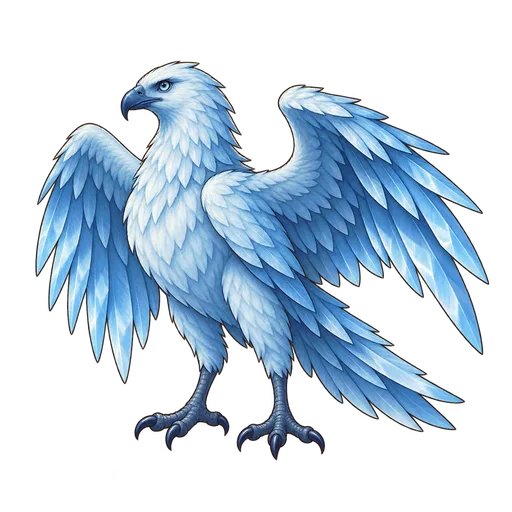
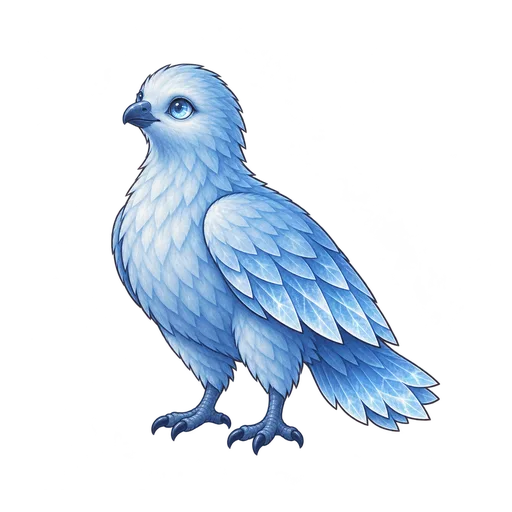
Soften Kavari silhouette and simplify folded wings

diff --git a/art/source/kavari-generation.md b/art/source/kavari-generation.md
@@ -6,6 +6,17 @@ Pillow to fit within 940 × 940 pixels on the 1024 × 1024 RGBA entity canvas,
 preserving alpha and a clear margin. `tools/art/portraits.py kavari` derives the
 512-pixel WebP portrait. No rig or combat abilities are added.
 
-## Prompt
+## Revision
+
+The revised figure uses closed wings to remove the nested inner-wing silhouette,
+a rounder body and face, and crystalline feather highlights for a quieter magical
+appearance. Generated with the built-in imagegen edit tool, then processed with
+the same canvas and portrait derivation described above.
+
+### Final edit prompt
+
+Substantially redesign this Kavari illustration. The previous edit was too conservative. CHANGE THE ENTIRE POSE AND WING STRUCTURE. Bird stands quietly with BOTH WINGS FOLDED CLOSED against the sides of its body. ZERO outstretched wings, zero raised wing arches, zero inset wings. Only one folded teardrop-shaped wing visible on the near flank; the other wing mostly hidden behind the body. Single continuous back silhouette, no fan behind shoulders. Make it a magical cave bird rather than an eagle: rounded head, short blunt dark blue beak with NO hooked tip, no raptor brow, softly luminous pale-blue eyes, inquisitive slight head tilt. Uniform ICE BLUE head and body, NOT a white head. Stocky adult bird with a comfortably rounded chest, short sturdy bird legs and modest feet, a short fan tail rather than a long imperial eagle tail. Elegant crystalline geometric facets only in the ends of the folded flight feathers, subtle opalescent icy light within these feathers, soft light-blue frost tracery, restrained magical quality. No crest, no ornaments, no floating particles, no surrounding ice. Adult natural animal proportions; not chibi, not a baby, not an owl or penguin. Warm hand-painted storybook fantasy illustration, dark fine tapered outlines, simple softly shaded broad feather shapes, children's adventure game. Full-body 3/4 view facing left, isolated true transparent RGBA background, clear 60 pixel margins on all sides of square canvas. No scenery, text or ground shadow. Preserve ice-blue palette and species idea, but do NOT preserve eagle anatomy or spread-wing composition from reference.
+
+## Initial prompt
 
 Create one complete full-body Kavari bird cutout for Kids & Dragons, a children's fantasy storybook game. Single adult legendary bird, natural-looking and unornamented, ice-blue fully feathered body, darker deep-blue beak, streamlined but slightly bulky powerful chest. Adult stands 3.5 feet tall with nine-foot wingspan. Broad mature wings partially spread to show crystalline-looking flight feathers, actual feathers with angular icy highlights rather than icicle spikes. Two sturdy bird feet, calm alert intelligent expression, three-quarter view facing left. No elaborate crest, no jewelry, no armor, no decorative ice formations, no magic effects, no scenery, no ground shadow, no egg, no text. Hand-painted storybook illustration, warm dark-brown tapered outlines, soft-edged cel shading with two tones and a highlight, upper-left lighting, bold readable silhouette, restrained details concentrated in face and wings. Square 1024x1024 composition, whole figure fully inside frame with at least 40 pixels transparent breathing room on every edge. Feet near bottom center. True transparent background, RGBA cutout. Match a polished illustrated fantasy bestiary, not photorealistic, not 3D, not chibi.
